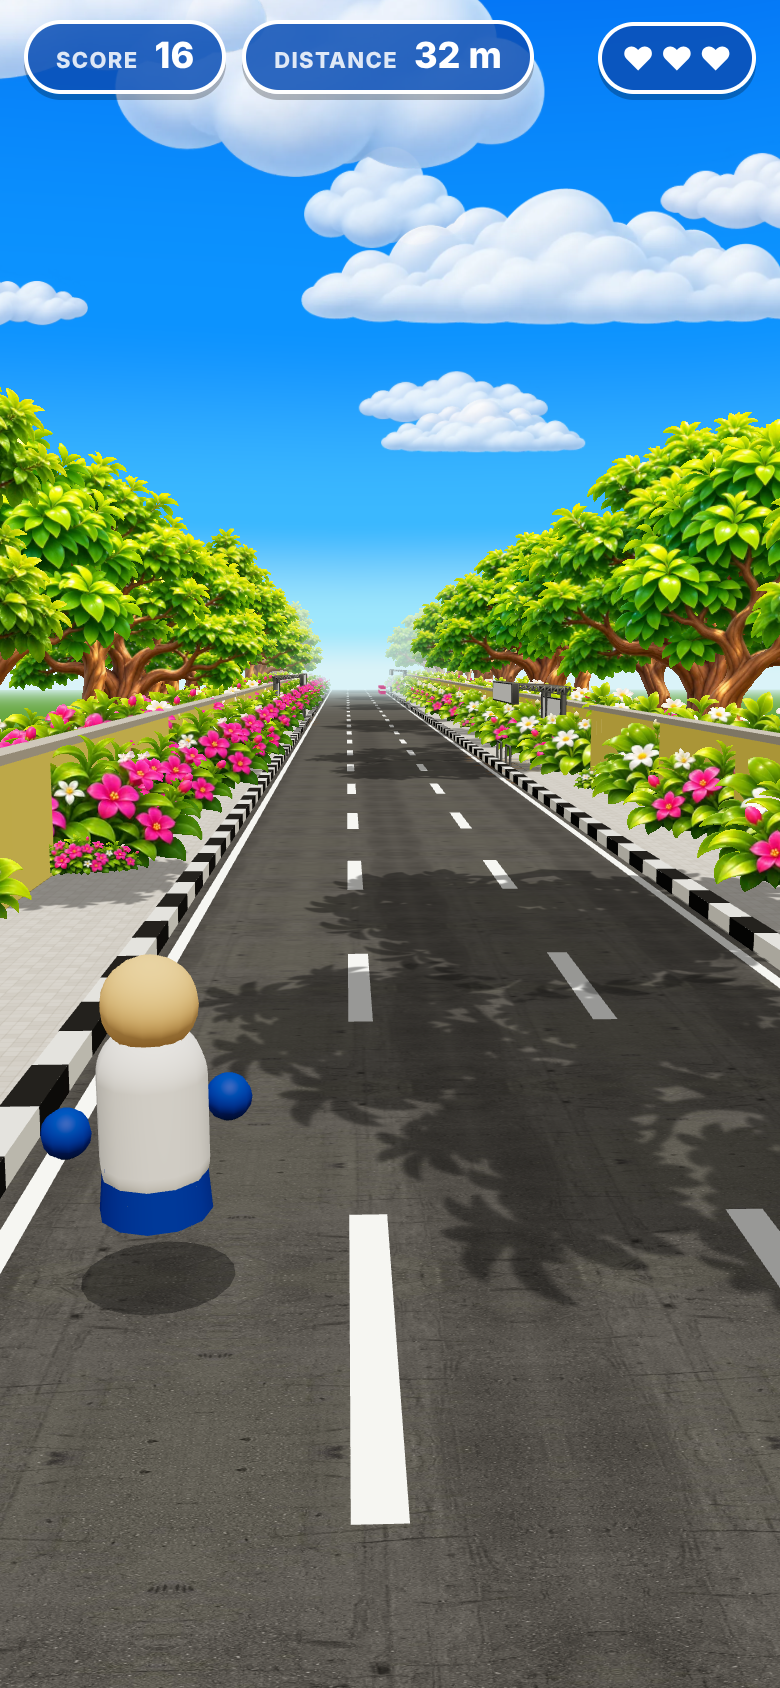
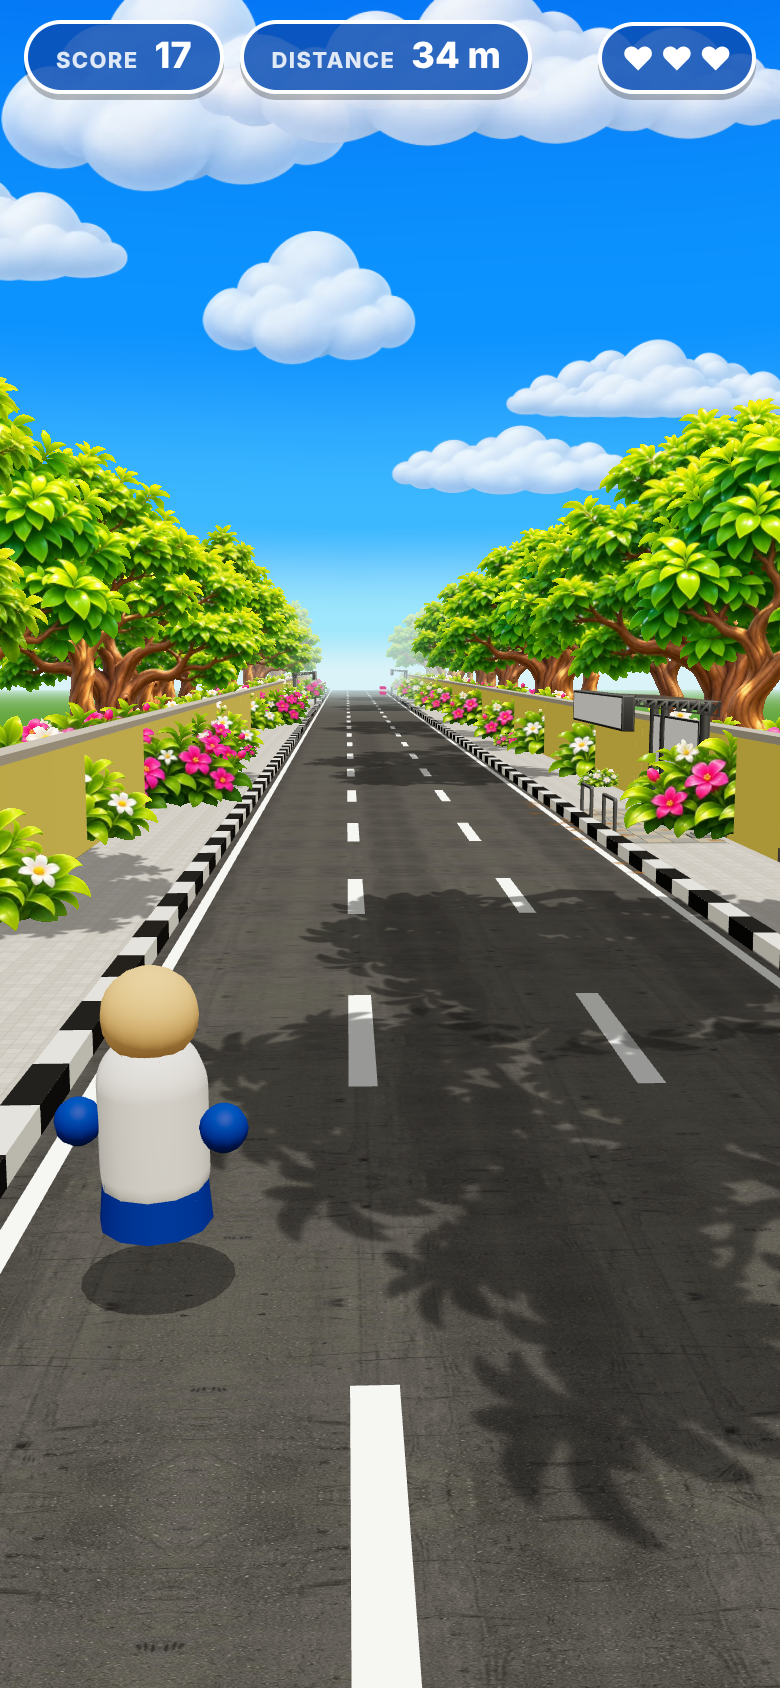
World: fewer bushes, gaps along the wall
Claude-Session: https://claude.ai/code/session_015MHPvXtKwbps1DwJmjDf5T

diff --git a/public/js/world.js b/public/js/world.js
@@ -7,8 +7,8 @@ import {
 import { pavingTexture } from './textures.js';
 
 const TREES_PER_CHUNK = 16;   // 8 per side, one row set back behind the wall
-const BUSHES_FRONT_PER_CHUNK = 10;  // small clumps on the pavement at the wall base
-const BUSHES_BACK_PER_CHUNK = 28;   // dense hedge behind the wall, hides the ground
+const BUSHES_FRONT_PER_CHUNK = 6;   // a few small clumps on the pavement at the wall base
+const BUSHES_BACK_PER_CHUNK = 14;   // loose hedge behind the wall
 
 /**
  * The running world: an endless street built from CHUNK_COUNT identical
@@ -272,15 +272,15 @@ export class World {
         const h = 0.55 + rng() * 0.3;                     // low, so the wall stays visible
         bush.scale.set(h * kind.aspect, h, 1);
         bush.position.set(s * (WALL.inner - 0.45), PAVEMENT.height, z);
-        bush.visible = !blocked;
+        bush.visible = !blocked && rng() < 0.8;
       } else {
         const j = i - BUSHES_FRONT_PER_CHUNK;
         const slot = Math.floor(j / 2);
         const z = -CHUNK_LENGTH / 2 + (slot + rng() * 0.6) * (CHUNK_LENGTH / (BUSHES_BACK_PER_CHUNK / 2));
-        const h = 2.5 + rng() * 0.5;                      // tops just peek over the 2.2 m wall
+        const h = 2.4 + rng() * 0.4;                      // tops just peek over the 2.2 m wall
         bush.scale.set(h * kind.aspect, h, 1);
         bush.position.set(s * (WALL.outer + 0.9 + rng() * 0.8), -0.02, z);
-        bush.visible = true;
+        bush.visible = rng() < 0.75;
       }
     });
   }
